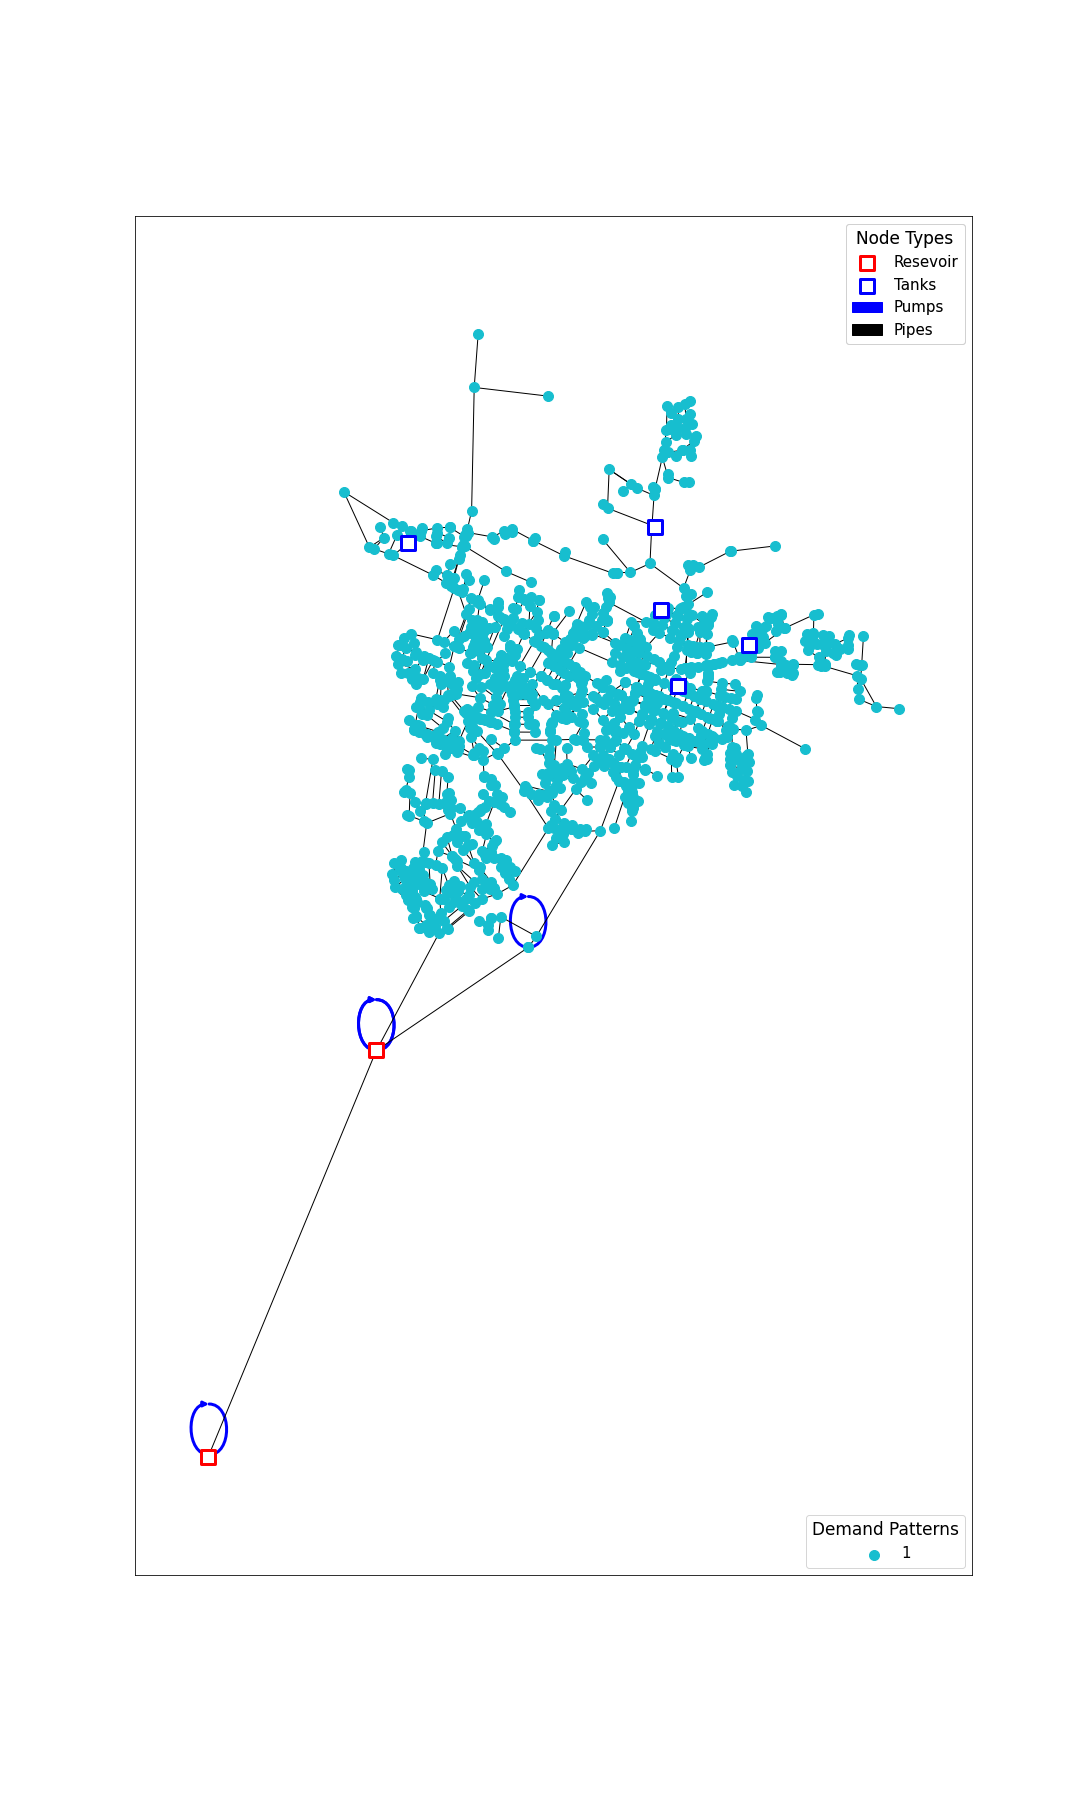
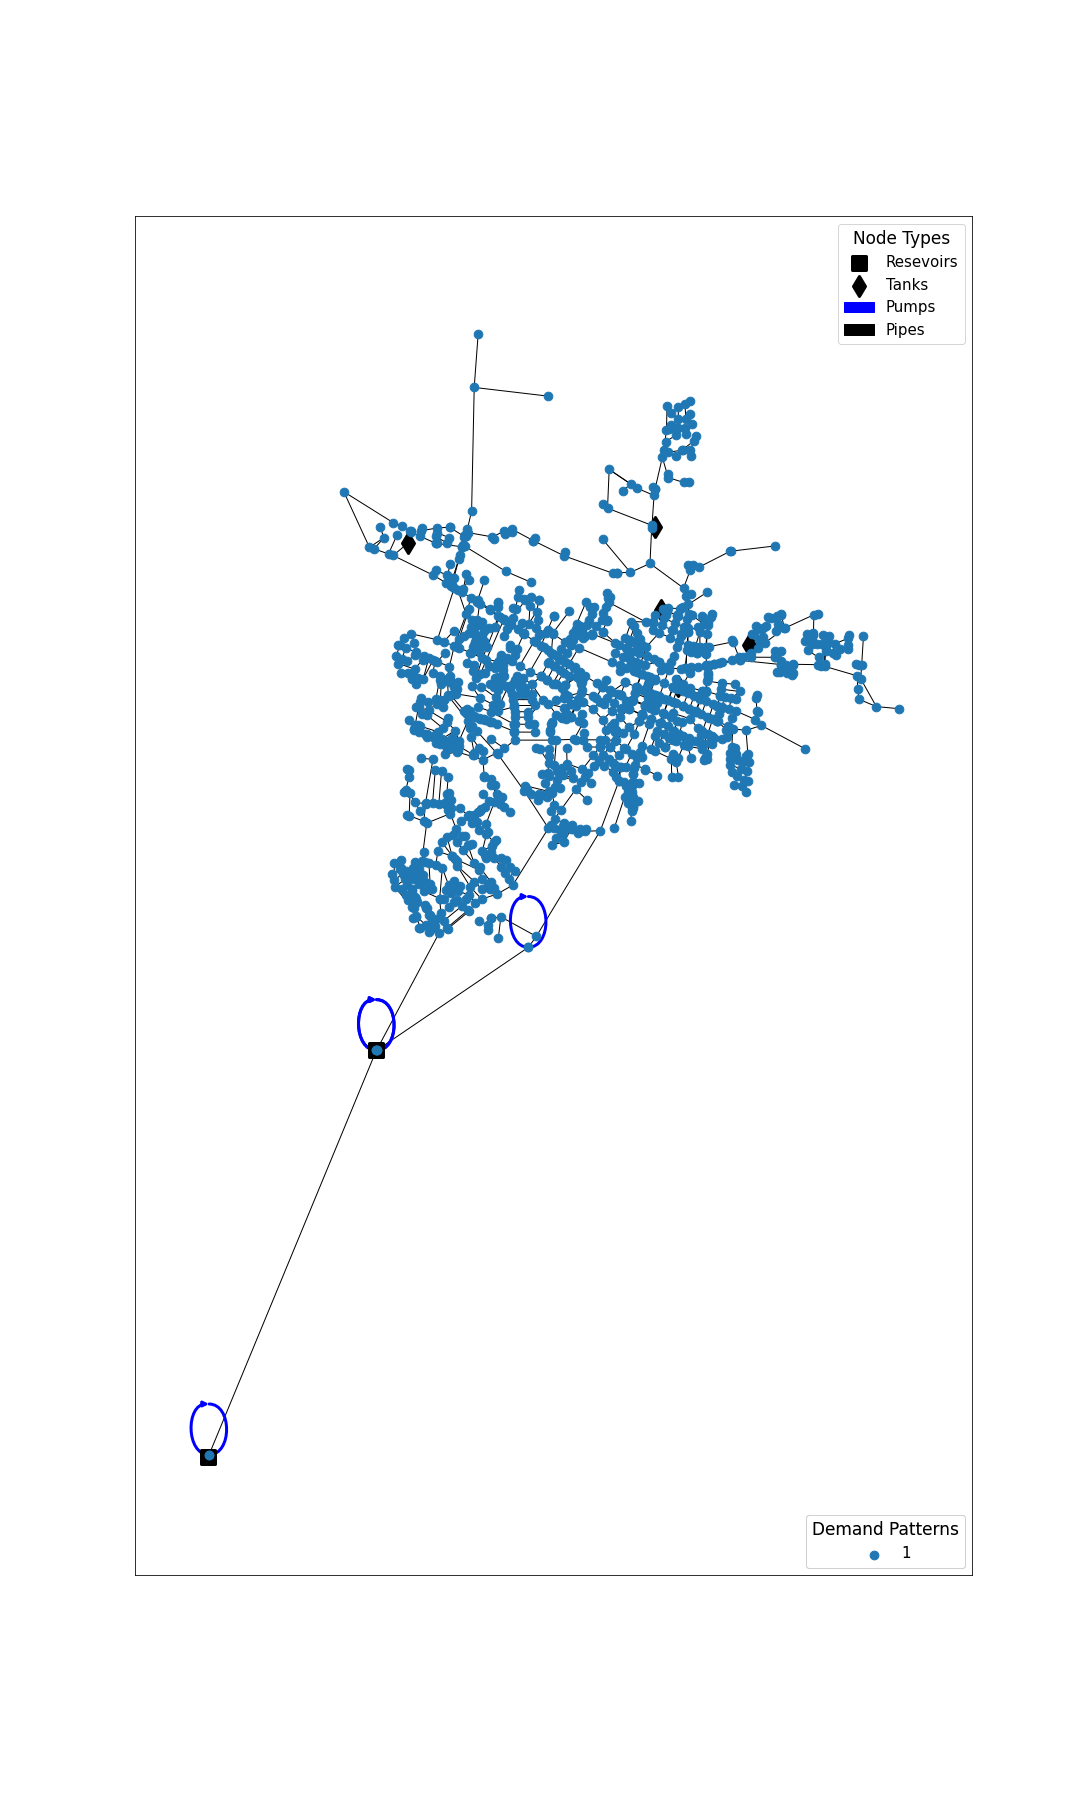
Updates Distinct Node Function, Adds Continuous Node and Distinct Link Function
Adds special data and nodes functionality to plotDistinctNodes

Adds timestep option to plotDistinctNodes

Adds plotContinousNodes function. Colormapping for negative values needs work.

Adds plotDistinctLinks function. Needs work.

Changed region(s): [[0.3361, 0.2178, 0.825, 0.5289], [0.7639, 0.1244, 0.8861, 0.1867], [0.3361, 0.56, 0.3667, 0.5911]]

diff --git a/Base Codes/wdn_viz_003.py b/Base Codes/wdn_viz_003.py
@@ -1,18 +1,15 @@
 import wntr
-import networkx as nx
 import numpy as np
-import scipy.sparse as sp
 import matplotlib.pyplot as plt
 from wntr.epanet.util import *
 import networkx.drawing.nx_pylab as nxp
-import matplotlib.colors as mc
+import matplotlib.colors as colors
 import matplotlib as mpl
-from matplotlib.lines import Line2D
-import matplotlib.cm as cm
+from matplotlib import cm
 import matplotlib.patches as mpatches
 import os
 import pandas as pd
-import math
+
 
 def patternMatch(nodePattern,pattern, junc_name,demandPatternNodes):
     """Determines if demand pattern of node is the one specified, then stores 
@@ -26,9 +23,24 @@ def patternMatch(nodePattern,pattern, junc_name,demandPatternNodes):
         demandPatternNodes[pattern][junc_name] = junc_name
     return demandPatternNodes
 
-def binParameter(parameterResults,binList):
+def convertExcel(data):
+    node_list= {}
+    dirname = os.path.dirname(__file__)
+    dataFile = os.path.join(dirname, 'Excel', data)
+    df = pd.read_excel(dataFile,dtype=str)
+    headers = df.columns
+
+    for header in headers:
+        node_list[header] = {}
+        for node in df.loc[:,header].dropna():
+            node_list[header][node] = node
+
+    return node_list, headers
+            
+    
+def binParameter(parameterResults,binList,binNum):
     if binList == 'Automatic':
-        bins=math.floor(math.pow(len(parameterResults),1/3))
+        bins=binNum
         binList = np.linspace(np.min(parameterResults),np.max(parameterResults),bins)
     binnedParameter = {}
     binNames = []
@@ -49,7 +61,7 @@ def binParameter(parameterResults,binList):
                 
     for binName in binNames:
         binnedParameter[binName] = {}
-    print(binNames)
+
     for i in range(len(binList)):
         
         if i == 0:
@@ -88,6 +100,68 @@ def binParameter(parameterResults,binList):
             del binnedParameter[binName]
     return binnedParameter, binNames
 
+def binLinkParameter(parameterResults,binList,binNum):
+    if binList == 'Automatic':
+        bins=binNum
+        binList = np.linspace(np.min(parameterResults),np.max(parameterResults),bins)
+    binnedParameter = {}
+    binNames = []
+    junctionNames = list(parameterResults.index)
+    for i in range(len(binList)):
+        
+        if i == 0:
+            if np.min(parameterResults) < binList[i]:
+                binNames = np.append(binNames, '< {0:1.3f}'.format(binList[i]))
+            binNames = np.append(binNames, '{0:1.3f} - {1:1.3f}'.format(binList[i], binList[i+1]))
+            
+        elif (i<len(binList) - 1) == True:
+            binNames = np.append(binNames, '{0:1.3f} - {1:1.3f}'.format(binList[i], binList[i+1]))
+            
+        elif i == len(binList) - 1:
+            if np.max(parameterResults) > binList[i]:
+                binNames = np.append(binNames, '> {0:1.3f}'.format(binList[i]))
+                
+    for binName in binNames:
+        binnedParameter[binName] = {}
+
+    for i in range(len(binList)):
+        
+        if i == 0:
+            counter = 0
+
+            
+            for parameter in parameterResults:
+                if parameter >= binList[i] and parameter < binList[i+1]:
+                        binnedParameter['{0:1.3f} - {1:1.3f}'.format(binList[i], binList[i+1])][junctionNames[counter]] = int(counter)
+                if parameter < binList[i]:
+                        binnedParameter['< {0:1.3f}'.format(binList[i])][junctionNames[counter]] = counter
+                counter += 1
+        elif i == len(binList) - 2:
+            counter = 0
+            for parameter in parameterResults:
+                if parameter >= binList[i] and parameter <= binList[i+1]:
+                        binnedParameter['{0:1.3f} - {1:1.3f}'.format(binList[i], binList[i+1])][junctionNames[counter]] = int(counter)
+                counter += 1
+        elif (i<len(binList) - 2) == True:
+            counter = 0
+            for parameter in parameterResults:
+                if parameter >= binList[i] and parameter < binList[i+1]:
+                        binnedParameter['{0:1.3f} - {1:1.3f}'.format(binList[i], binList[i+1])][junctionNames[counter]] = int(counter)
+                counter += 1
+                
+        elif i == len(binList) - 1:
+            counter = 0
+            for parameter in parameterResults:
+                if parameter > binList[i]:
+                    binnedParameter['> {0:1.3f}'.format(binList[i])][junctionNames[counter]] = int(counter)
+                counter += 1
+                
+    for binName in binNames:
+        if len(binnedParameter[binName]) == 0:
+            binNames = np.delete(binNames,np.where(binNames == binName))
+            del binnedParameter[binName]
+    
+    return binnedParameter, binNames
     
             
 def drawLegend(ax,title='Node Types',pumps=True,loc='upper right'):
@@ -110,11 +184,11 @@ def drawSpecialLegend(ax,binList,title=None,loc='lower right'):
     legend = plt.legend(title=title,handles=handles[len(labels) - len(binList):], loc=loc,fontsize = '15', title_fontsize = '17')
     ax.add_artist(legend)
     
-    
+ 
 def drawDistinctNodes(model,ax,nodes, binList, binSizeList=None, binLabelList=None, binShapeList=None,cmap='tab10', colorList =  None,legend=True, legendTitle=None, legendLoc='lower right'):
     if binSizeList == None:
         binSizeList = np.ones(len(binList))*300
-    print(binSizeList)
+
     
     if binLabelList == None:
         binLabelList = binList
@@ -141,6 +215,32 @@ def drawDistinctNodes(model,ax,nodes, binList, binSizeList=None, binLabelList=No
     if legend == True:
         drawSpecialLegend(ax,binList,title=legendTitle,loc=legendLoc)
     handles, labels = ax.get_legend_handles_labels()       
+
+def drawDistinctLinks(model,ax,links, binList, binWidthList=None, binLabelList=None,cmap='tab10', colorList =  None,legend=True, legendTitle=None, legendLoc='lower right'):
+    if binWidthList == None:
+        binWidthList = np.ones(len(binList))*2
+
+    
+    if binLabelList == None:
+        binLabelList = binList
+    counter = 0
+    if (colorList != None and cmap != None) == True or cmap != None:        
+        cmap = mpl.cm.get_cmap(cmap)
+        cmapValue = 0
+        
+        for binName in binList:
+            nxp.draw_networkx_edges(model['G'], model['pos_dict'], edgelist = ([model['G_edge_list'][i] for i in links.get(binName).values()]),edge_color = cmap(float(cmapValue)),width = binWidthList[counter],arrows = False,label=binLabelList[counter])
+            cmapValue += 1/len(binList)
+            counter += 1
+            
+    else:
+        for binName in binList:
+            nxp.draw_networkx_edges(model['G'], model['pos_dict'], edgelist = model['G_edge_list'][links.get(binName).values()],edge_color = colorList[counter],width = binWidthList[counter],arrows = False,label=binLabelList[counter])
+            counter += 1
+            
+    if legend == True:
+        drawSpecialLegend(ax,binList,title=legendTitle,loc=legendLoc)
+    handles, labels = ax.get_legend_handles_labels()      
         
     
 def drawBaseElements(model,ax,resevoirs=True,tanks=True,pumps=True,valves=True,legend=True):
@@ -168,13 +268,38 @@ def drawBaseElements(model,ax,resevoirs=True,tanks=True,pumps=True,valves=True,l
         
     if legend == True:
         drawLegend(ax,pumps=pumps)      
-def getParameter(model,parameter):
-    try:
-        parameterResults = model['results'].node[parameter]
-        return parameterResults
-    except KeyError:
-        parameterResults = model['wn'].query_node_attribute('elevation')
-        return parameterResults
+
+def drawColorBar(model,ax,g,cmap,colorBarTitle, nodeSize = 100, nodeShape = '.'):
+
+    cbar = plt.colorbar(g)
+    cbar.set_label(colorBarTitle, fontsize = 15)
+def getParameter(model,parameterType,parameter,timestep = None):
+    if parameterType == 'Node':
+        try:
+            if timestep != None:
+                parameterResults = model['results'].node[parameter].iloc[timestep]
+                elementList = list(parameterResults.index)
+            else:
+                parameterResults = model['results'].node[parameter]
+                elementList = list(parameterResults.index)
+            return parameterResults, elementList
+        except KeyError:
+            parameterResults = model['wn'].query_node_attribute(parameter)
+            elementList = list(parameterResults.index)
+            return parameterResults, elementList
+    else:
+        try:
+            if timestep != None:
+                parameterResults = model['results'].link[parameter].iloc[timestep]
+                elementList = list(parameterResults.index)
+            else:
+                parameterResults = model['results'].link[parameter]
+                elementList = list(parameterResults.index)
+            return parameterResults, elementList
+        except KeyError:
+            parameterResults = model['wn'].query_link_attribute(parameter)
+            elementList = list(parameterResults.index)
+            return parameterResults, elementList
 
 
 def getDemandPatterns(model):
@@ -220,6 +345,7 @@ def initializeModel(inp_file):
     image_path = os.path.join(dirname, 'Images')
     model['image_path'] = image_path
     
+    
     # Run hydraulic simulation and store results
     wn = wntr.network.WaterNetworkModel(inp_file)
     model['wn'] = wn
@@ -227,6 +353,9 @@ def initializeModel(inp_file):
     model['sim'] = sim
     results = sim.run_sim()
     model['results'] = results
+    
+    print(wn.options.time.report_timestep)
+
     
     # Create name lists for easy reference
     junc_names = wn.junction_name_list
@@ -280,7 +409,8 @@ def initializeModel(inp_file):
     model['G_list_valves_only'] = G_list_valves_only  
     model['G_pipe_index'] = G_pipe_index  
     model['pipe_list_names'] = pipe_list_names                   
-        
+    
+    
     return model
 
 
@@ -349,12 +479,54 @@ def createDemandPatternPlot(model, savefig=True, saveName=None):
     if savefig == True:
          saveFig(model, saveName=saveName)
 
-def plotDistinctNodes(model, parameter=None,bins='Automatic', binSizeList = None, binShapeList = None,binLabelList = None, savefig=True, legend=True,legendTitle = None, legendLoc='lower right', saveName=None, cmap='tab10', colorList=None):
+def plotDistinctNodes(model, parameter=None, timestep=None, bins='Automatic', binNum=None, binSizeList = None, binShapeList = None,binLabelList = None, savefig=True, tanks=True, resevoirs=True, pumps=True, valves=True,legend=True,legendTitle = None, legendLoc='lower right', saveName=None, cmap='tab10', colorList=None, specialData=None, specialLegendTitle=None):
     fig, ax = plt.subplots(figsize=(15,25))
-    parameterResults = getParameter(model,parameter)
-    binnedResults,binNames = binParameter(parameterResults,binList=bins)
-    drawBaseElements(model,ax,tanks=False)
-    drawDistinctNodes(model,ax,binnedResults,binNames,binSizeList=binSizeList,binShapeList=binShapeList, binLabelList=binLabelList,cmap=cmap, colorList=colorList, legend=legend, legendTitle=legendTitle, legendLoc=legendLoc)
+    drawBaseElements(model,ax,tanks=tanks,resevoirs=resevoirs,pumps=pumps,valves=valves)
+    if parameter != None:
+        parameterResults, nodeList = getParameter(model,'Node',parameter, timestep=timestep)
+        binnedResults,binNames = binParameter(parameterResults,binList=bins, binNum=binNum)
+        
+        drawDistinctNodes(model,ax,binnedResults,binNames,binSizeList=binSizeList,binShapeList=binShapeList, binLabelList=binLabelList,cmap=cmap, colorList=colorList, legend=legend, legendTitle=legendTitle, legendLoc=legendLoc)
+    if specialData != None:
+        node_list, headers = convertExcel(specialData)
+        drawDistinctNodes(model,ax,node_list,headers, legendTitle=specialLegendTitle)
     
     if savefig == True:
-         saveFig(model,saveName=saveName)
+         saveFig(model, saveName=saveName)
+   
+def plotContinuousNodes(model, parameter=None, timestep=None, tanks=True, resevoirs=True, pumps=True, valves=True,cmap='gist_heat', colorBarTitle=None,nodeSize=100, nodeShape='.',savefig=True, saveName=None):
+    fig, ax = plt.subplots(figsize=(15,25))
+    drawBaseElements(model,ax,tanks=tanks,resevoirs=resevoirs,pumps=pumps,valves=valves)
+    if parameter != None:
+        parameterResults, nodeList = getParameter(model,'Node',parameter, timestep=timestep)
+    negativeValues = False
+    for value in parameterResults:
+        if value < -1e-5:
+            negativeValues = True
+            cmap = 'bwr'
+            top = cm.get_cmap('Oranges_r', 128)
+            bottom = cm.get_cmap('Blues', 128)
+
+            newcolors = np.vstack((top(np.linspace(0, 1, 128)),
+                       bottom(np.linspace(0, 1, 128))))
+            newcmp = ListedColormap(newcolors, name='OrangeBlue')
+            g = nxp.draw_networkx_nodes(model['G'], model['pos_dict'], nodelist=nodeList,node_size = nodeSize, node_color=parameterResults, cmap=newcmap,node_shape = nodeShape)
+            break
+    if negativeValues == False:
+        g = nxp.draw_networkx_nodes(model['G'], model['pos_dict'], nodelist=nodeList,node_size = nodeSize, node_color=parameterResults, cmap=cmap, node_shape = nodeShape)
+    drawColorBar(model,ax,g,cmap,colorBarTitle=colorBarTitle)
+    if savefig == True:
+        saveFig(model, saveName=saveName)
+    
+def plotDistinctLinks(model, parameter=None, timestep=None, bins='Automatic', binNum=None, binWidthList=None, binLabelList=None,colorList=None,tanks=True, resevoirs=True, pumps=True, valves=True,cmap='gist_heat',legend=True, legendTitle=None, legendLoc='lower right',savefig=True,saveName=None):
+    fig, ax = plt.subplots(figsize=(15,25))
+    drawBaseElements(model,ax,tanks=tanks,resevoirs=resevoirs,pumps=pumps,valves=valves)
+    if parameter != None:
+        parameterResults, linkList = getParameter(model,'Link',parameter, timestep=timestep)
+        binnedResults,binNames = binLinkParameter(parameterResults,binList=bins, binNum=binNum)
+        drawDistinctLinks(model,ax,binnedResults,binNames,binWidthList=binWidthList, binLabelList=binLabelList,cmap=cmap, colorList=colorList, legend=legend, legendTitle=legendTitle, legendLoc=legendLoc)
+    if savefig == True:
+         saveFig(model, saveName=saveName)
+         
+def plotContinuousLinks(model,parameter=None,timestep=None,minWidth=1,maxWidth=5,tanks=True, resevoirs=True, pumps=True, valves=True,cmap='gist_heat',colorBarTitle=None,savefig=True, saveName=None):
+    f

diff --git a/Base Codes/example.py b/Base Codes/example.py
@@ -7,7 +7,13 @@ import wdn_viz_003 as wdn
 model = wdn.initializeModel('CTown.inp')
 
 wdn.createBasicPlot(model, savefig=True, saveName = 'Basic')
-wdn.createFlowRatePlot(model, savefig=True)
 wdn.createDemandPatternPlot(model, savefig=True, saveName = 'DemandPatterns')
-wdn.plotDistinctNodes(model,parameter='elevation',savefig=True, legendTitle= 'Elevation Groups', saveName = 'ElevationMap')
+wdn.plotDistinctNodes(model,parameter='elevation',binNum=5,savefig=True, legendTitle= 'Elevation Groups', saveName = 'ElevationMap')
 wdn.plotDistinctNodes(model,parameter='elevation',bins=[25,50,75,100,125,150],binSizeList = [100,125,150,175,200,225], binShapeList = ['.','v','8','D','1','p'], cmap=None,colorList=['#9467bd', '#8c564b', '#e377c2', '#7f7f7f', '#bcbd22', '#17becf'],savefig=True, legendTitle= 'Elevation Groups', saveName = 'ElevationMap2')
+wdn.plotDistinctNodes(model,parameter='pressure', timestep=3, binNum=5,savefig=True, legendTitle= 'Pressure at T', saveName = 'PressureMap')
+wdn.plotContinuousNodes(model,parameter='elevation',colorBarTitle="Elevation", saveName="ContinuousElevation")
+wdn.plotContinuousNodes(model,parameter='pressure',timestep=55,colorBarTitle="Elevation", saveName="ContinuousPressure")
+wdn.plotDistinctLinks(model,parameter='flowrate',timestep=5,pumps=False,binWidthList=[2,2.5,3,3.5,4],cmap='Blues',binNum=5,saveName="FlowRates")
+#%%
+#model = wdn.initializeModel('NWC_old_stations.inp')
+#wdn.plotDistinctNodes(model,specialData='Nodes_Pressure_Zones.xlsx',specialLegendTitle='Pressure Zones',savefig=True, saveName = 'Pressure Zones')
